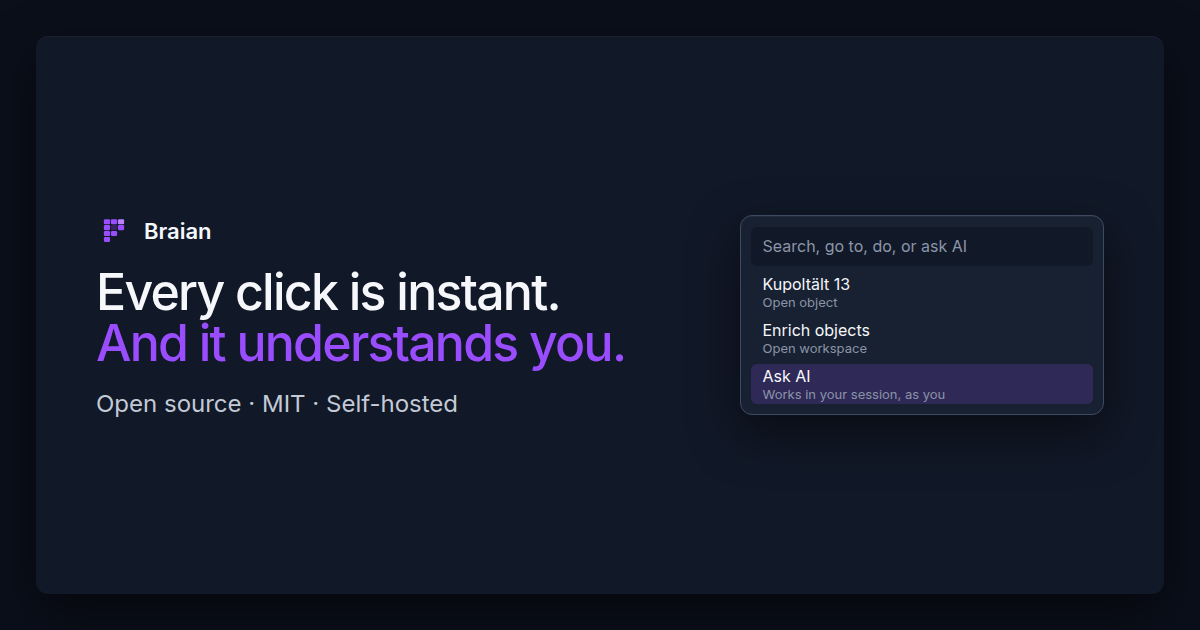
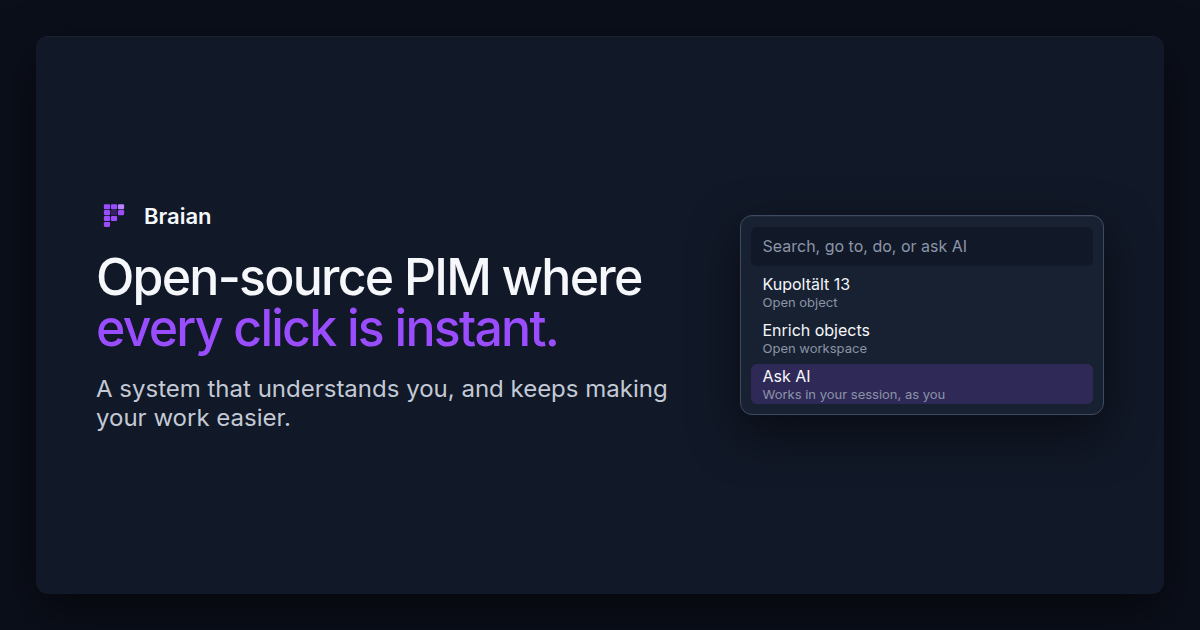
Update the landing hero headline.
The page now leads with “Open-source PIM where every click is instant.” Meta title, description, and Open Graph tags match that line, and the agent section has its own title.

Changed region(s): [[0.0617, 0.3317, 0.555, 0.6937]]

diff --git a/apps/landing/index.html b/apps/landing/index.html
@@ -3,10 +3,10 @@
   <head>
     <meta charset="utf-8" />
     <meta name="viewport" content="width=device-width, initial-scale=1" />
-    <title>Braian — instant, open-source product data</title>
+    <title>Braian — Open-source PIM where every click is instant.</title>
     <meta
       name="description"
-      content="Braian is an open-source (MIT), self-hosted product data system. Every view, search and filter is instant across the catalog, and Ctrl+K does what you ask, as you, in your session."
+      content="Open-source PIM where every click is instant. A system that understands you, and keeps making your work easier. Self-hosted, MIT licensed."
     />
     <link rel="canonical" href="https://braian.io/" />
     <meta name="theme-color" content="" data-from-token="--bg" />
@@ -14,20 +14,20 @@
     <meta property="og:site_name" content="Braian" />
     <meta property="og:locale" content="en_US" />
     <meta property="og:url" content="https://braian.io/" />
-    <meta property="og:title" content="Braian — instant, open-source product data" />
+    <meta property="og:title" content="Braian — Open-source PIM where every click is instant." />
     <meta
       property="og:description"
-      content="Every click is instant, and it understands you. Open-source, self-hosted product data."
+      content="Open-source PIM where every click is instant. A system that understands you, and keeps making your work easier."
     />
     <meta property="og:image" content="https://braian.io/og.png" />
     <meta property="og:image:width" content="1200" />
     <meta property="og:image:height" content="630" />
-    <meta property="og:image:alt" content="Braian. Every click is instant. And it understands you." />
+    <meta property="og:image:alt" content="Braian. Open-source PIM where every click is instant." />
     <meta name="twitter:card" content="summary_large_image" />
-    <meta name="twitter:title" content="Braian — instant, open-source product data" />
+    <meta name="twitter:title" content="Braian — Open-source PIM where every click is instant." />
     <meta
       name="twitter:description"
-      content="Every click is instant, and it understands you. Open-source, self-hosted product data."
+      content="Open-source PIM where every click is instant. A system that understands you, and keeps making your work easier."
     />
     <meta name="twitter:image" content="https://braian.io/og.png" />
     <link rel="icon" href="/brand/braian-app-icon.svg" type="image/svg+xml" />
@@ -44,7 +44,7 @@
         "url": "https://braian.io/",
         "license": "https://opensource.org/licenses/MIT",
         "codeRepository": "https://github.com/GlennSvanberg/openpim",
-        "description": "Open-source, self-hosted product data system. Every view, search and filter is instant, and the agent works in your session, as you.",
+        "description": "Open-source PIM where every click is instant. A system that understands you, and keeps making your work easier. Self-hosted, MIT licensed.",
         "offers": { "@type": "Offer", "price": "0", "priceCurrency": "USD" }
       }
     </script>

diff --git a/apps/landing/src/content.ts b/apps/landing/src/content.ts
@@ -13,9 +13,9 @@ export const nav = [
 
 export const hero = {
   eyebrow: 'Open-source product data · MIT · Self-hosted',
-  title: 'Every click is instant.',
-  titleAccent: 'And it understands you.',
-  lede: 'Braian is a product data system that keeps up with you. Views, searches and filters open at once, across the whole catalog. Press Ctrl+K, say what you want, and it does the work in your session.',
+  title: 'Open-source PIM where',
+  titleAccent: 'every click is instant.',
+  lede: 'A system that understands you, and keeps making your work easier.',
   proof: [
     { value: '64 ms', label: 'save to searchable, p50' },
     { value: '20 ms', label: 'save to every open session, p50' },
@@ -49,7 +49,7 @@ export const speed = {
 
 export const agent = {
   eyebrow: 'Ctrl+K',
-  title: 'The system understands you',
+  title: 'An agent that does the work, you approve',
   lede: 'Say what you want in plain words. The agent works in the Ctrl+K panel, in the workspace you already have open, and leaves its work for you to review.',
   points: [
     {
